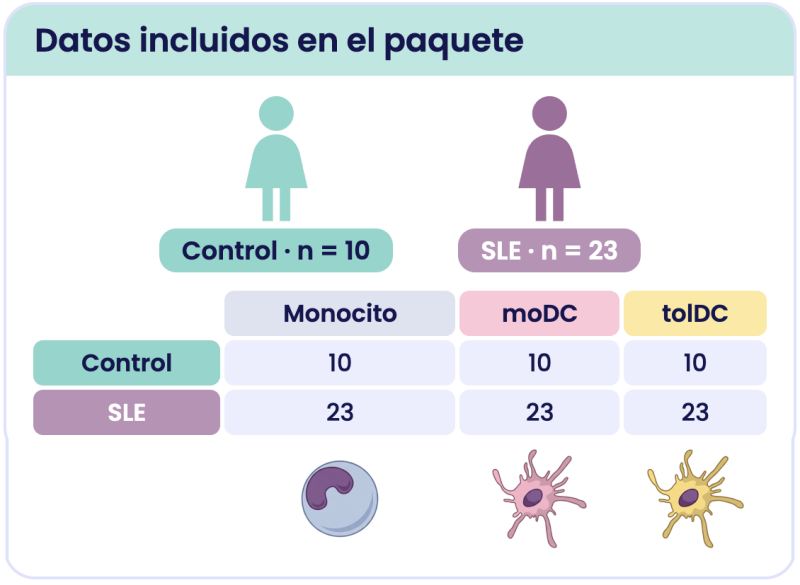
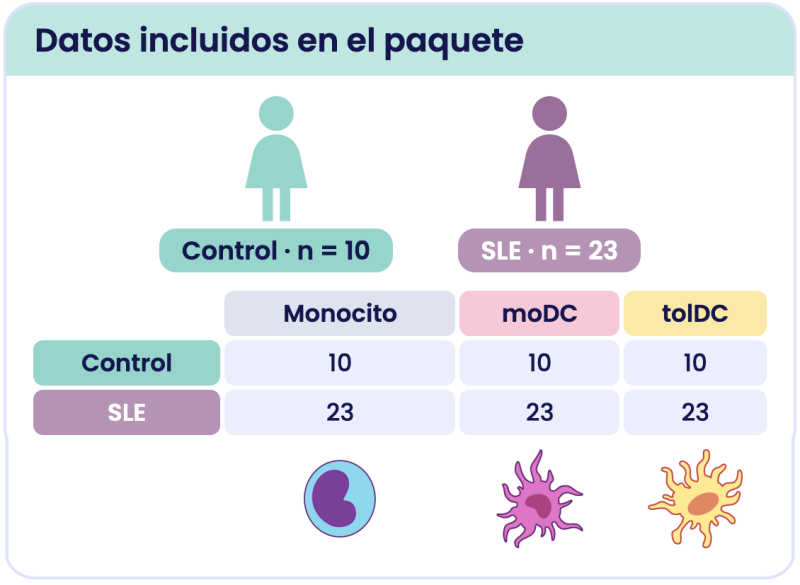
cambiar las celulas anteriores por las nuevas

Changed region(s): [[0.5938, 0.7692, 0.75, 0.9538], [0.8125, 0.7692, 0.9375, 0.9538], [0.375, 0.7692, 0.5, 0.9231]]

diff --git a/www/estilo.css b/www/estilo.css
@@ -83,6 +83,9 @@ table.dataTable > tbody > tr:hover > td { background: #E8F6F4 !important; }
 /* Diagrama mermaid sin el fondo gris de los bloques de código (como en lesson.css) */
 pre.mermaid { background: none; border: 0; text-align: center; margin-bottom: .25rem; }
 
+/* El título del menú es un enlace a Inicio: mismo color que el texto del menú */
+.navbar-brand-link, .navbar-brand-link:hover, .navbar-brand-link:focus { color: inherit; text-decoration: none; }
+
 /* Menú superior: pestañas compactas y el ícono de GitHub fijo en la esquina superior derecha */
 @media (min-width: 992px) {
   .navbar .navbar-brand { font-size: 1.1rem; margin-right: .5rem; }
